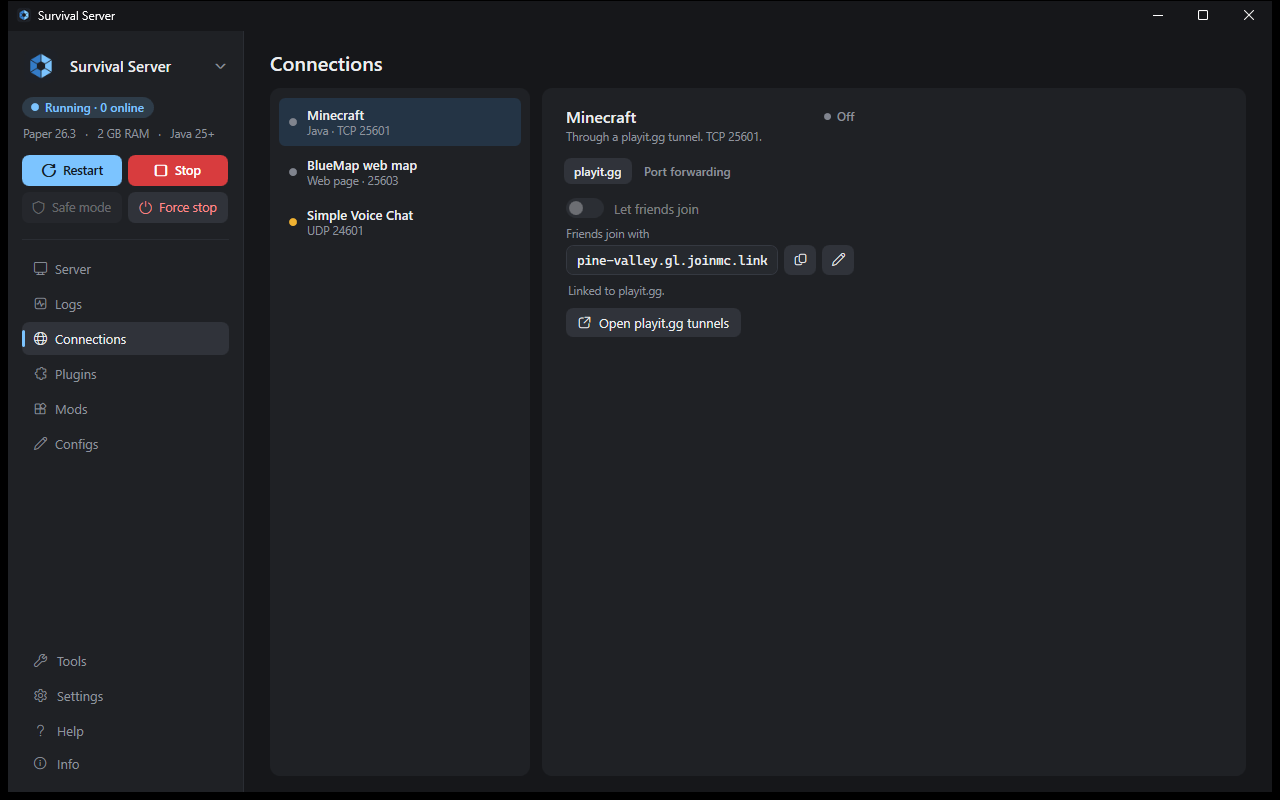
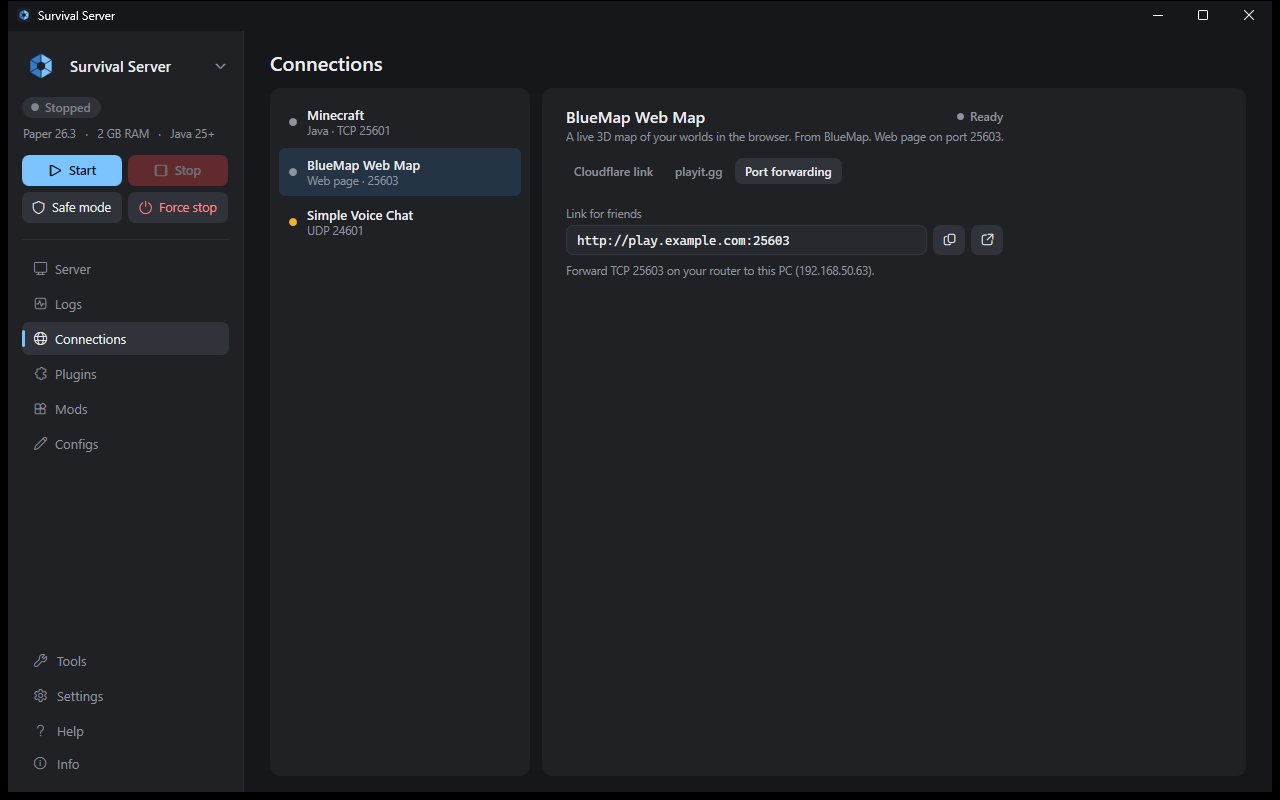
Website: Connections screenshot shows the per-connection choice

diff --git a/docs/index.html b/docs/index.html
@@ -158,7 +158,7 @@
         <figure><img src="img/logs.png" alt="Logs page" loading="lazy"><figcaption>Live console and performance graphs</figcaption></figure>
         <figure><img src="img/configs.png" alt="Configs page" loading="lazy"><figcaption>Config files as readable settings</figcaption></figure>
         <figure><img src="img/plugins.png" alt="Plugins page" loading="lazy"><figcaption>Plugins with update checks</figcaption></figure>
-        <figure><img src="img/connections.png" alt="Connections page" loading="lazy"><figcaption>How friends reach the server</figcaption></figure>
+        <figure><img src="img/connections.png" alt="Connections page" loading="lazy"><figcaption>Each connection picks playit.gg, a Cloudflare link or port forwarding</figcaption></figure>
         <figure><img src="img/settings.png" alt="Appearance settings" loading="lazy"><figcaption>Menu and highlight colours</figcaption></figure>
         <figure><img src="img/players-nether.png" alt="Players section in a red colour scheme" loading="lazy"><figcaption>Whitelist and operators, in another colour scheme</figcaption></figure>
       </div>
